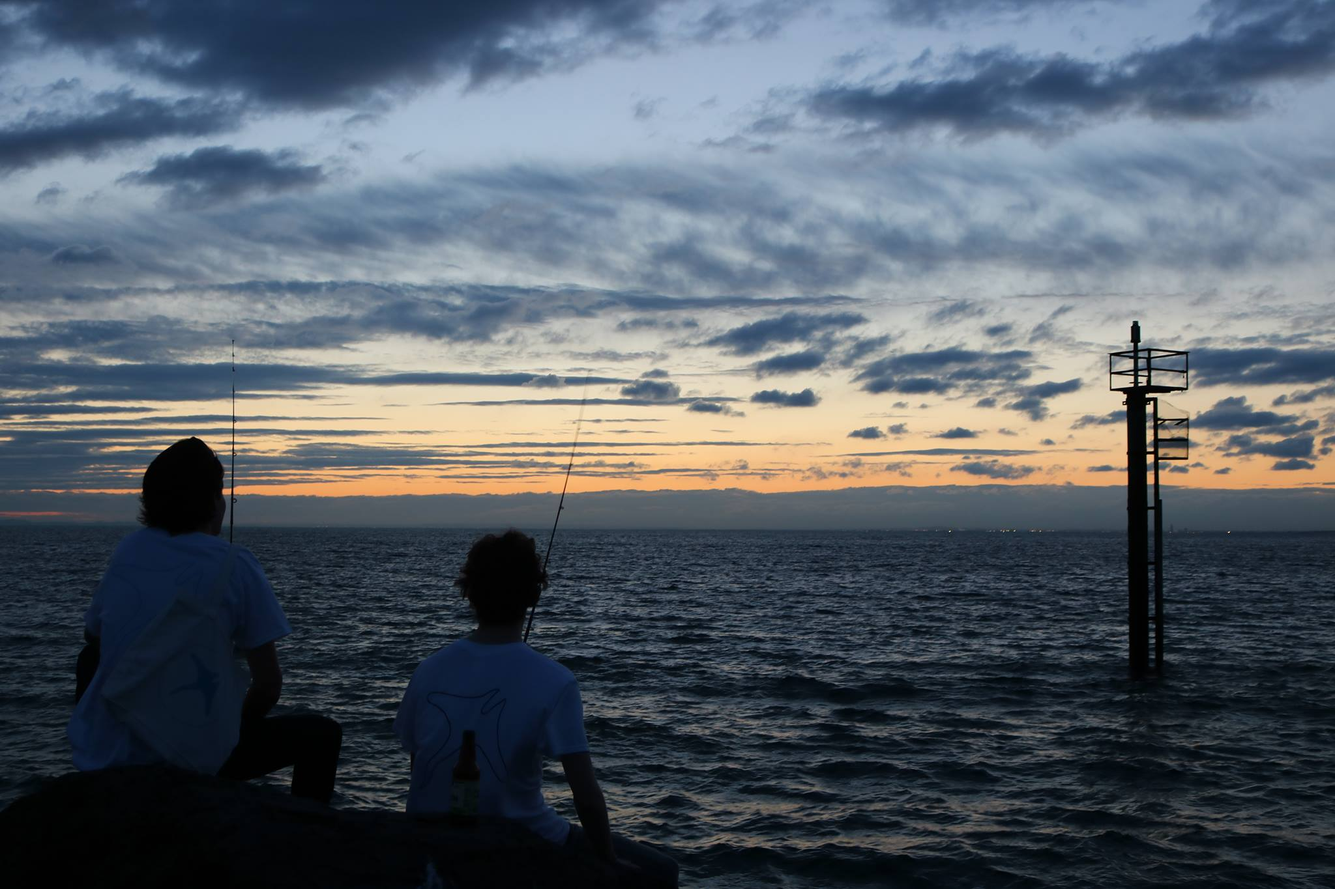
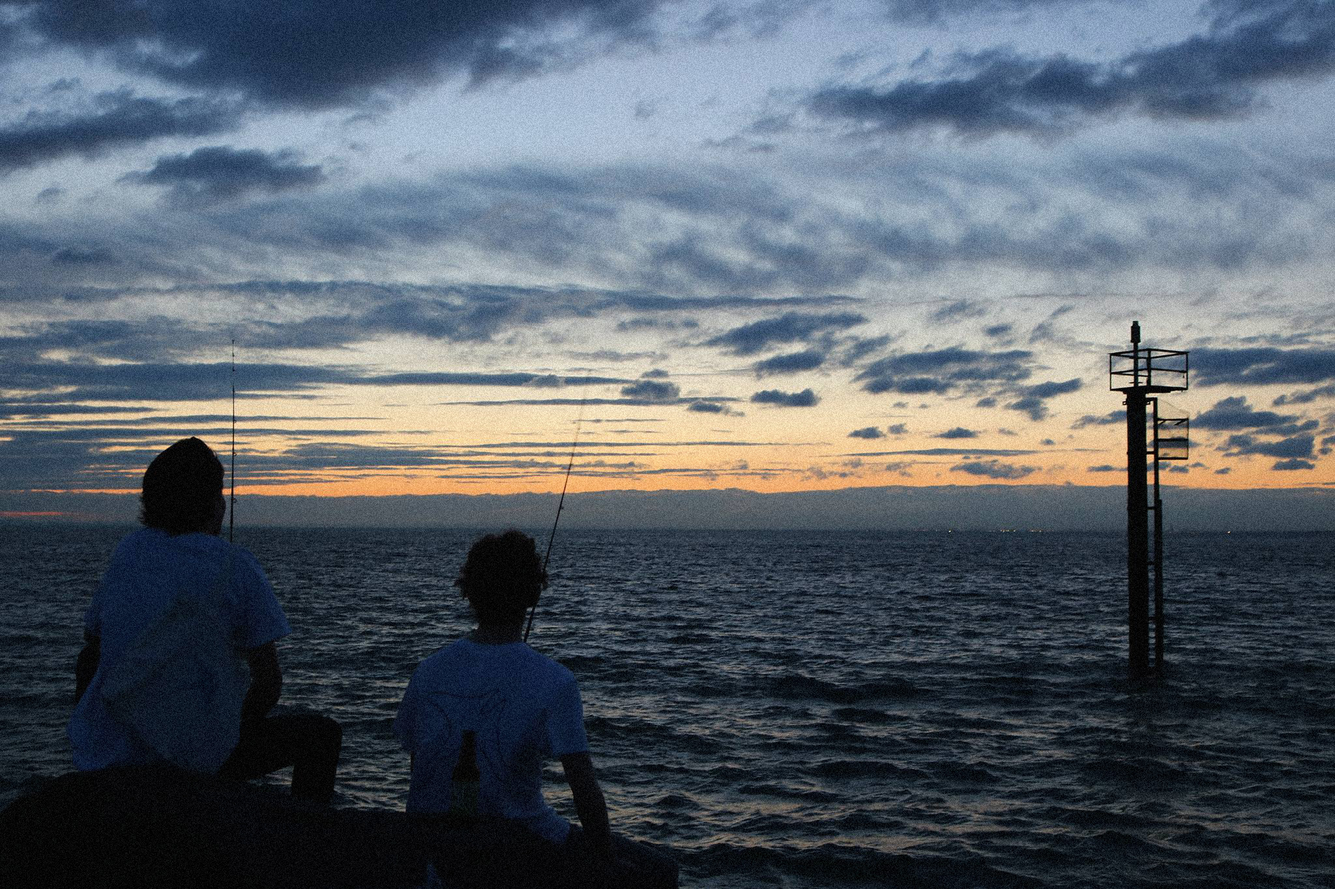
photos

diff --git a/young-perspectives/new-beginnings.html b/young-perspectives/new-beginnings.html
@@ -35,7 +35,7 @@
 
     </div>
 
-    <img class="img4of4 hero" src="assets/images/twone1.jpg">
+    <img class="img4of4 hero" src="assets/images/nb1.jpg">
 
     <div class="story">
 
@@ -57,8 +57,8 @@
       </div>
 
       <div class="box">
-        <img class="img2of4" src="assets/images/twone1.jpg">
-        <img class="img2of4" src="assets/images/twone1.jpg">
+        <img class="img2of4" src="assets/images/nb2.jpg">
+        <img class="img2of4" src="assets/images/nb2.jpg">
       </div> <br> <br>
 
       <div class="story">

diff --git a/young-perspectives/assets/css/main.css b/young-perspectives/assets/css/main.css
@@ -430,6 +430,7 @@ p {
     padding: 5px;
     color: white;
     align-items:flex-end;
+    padding-bottom:15px;
 	}
 
 	.des {
